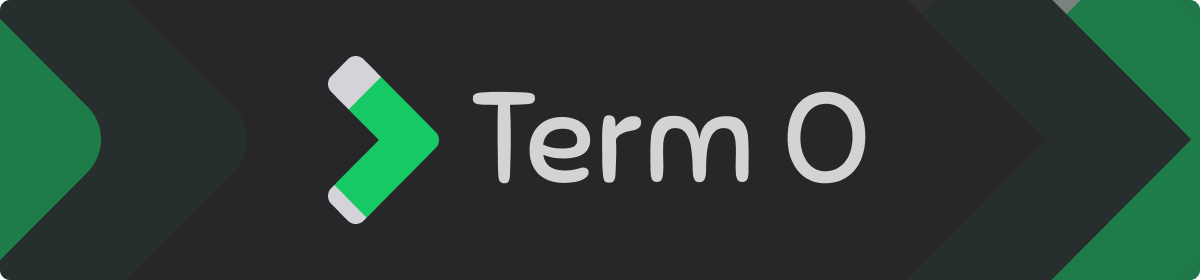
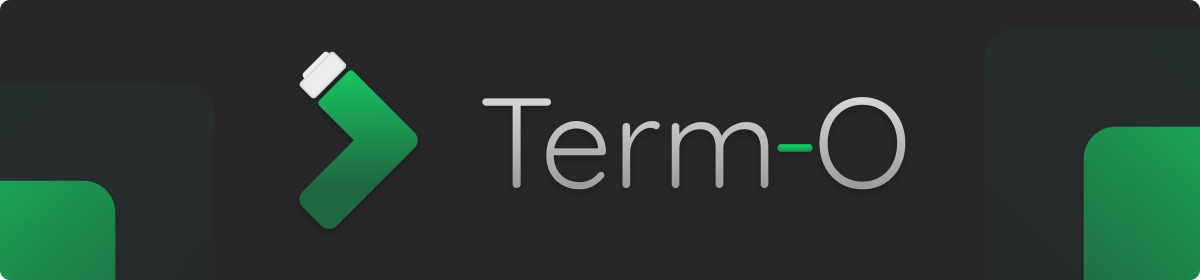
[WBS-295] Improve command dependency error messages (#275)
* feat: Isolate error logs to enable multiline errors

* feat: Update illustration in readme file

* feat: Handle errors for addons in an array format

* refactor: Manage array errors in command template

* feat: Display errors in multiliine

* feat: Improve message content

* feat: Show more info about errors

* feat: Add message error for option allow validation

* feat: Add message error for option conflict validation

* feat: Add expect prop for when validation

* feat: Add expect prop for requireNoOther validation

* refactor: Remove useless import

* refactor: Remove unnecessary changes

Pull request: [WBS-295] Improve command dependency error messages

diff --git a/src/helpers/validation-command.helpers.js b/src/helpers/validation-command.helpers.js
@@ -5,8 +5,8 @@ import {
   windowIdPattern
 } from '@src/constants/patterns.constants'
 import { getArrayAsLine } from '@src/helpers/arguments.helpers'
-import { quotify } from '@src/helpers/string.helpers'
 import { validateSchema } from '@src/helpers/validation-schema.helpers'
+import { getOptionTypeLabel } from './options.helpers'
 
 export const isRegExp = (option, value) => {
   try {
@@ -185,39 +185,47 @@ export const hasAllItemsAs = (...validations) => {
 }
 
 export const allow = (...dependencies) => {
-  return (option, _value, props) => {
+  return (option, _value, props, manager) => {
     const possibles = dependencies.concat(option.name)
     const uknownDependencies = Object.keys(props).filter(name => !possibles.includes(name))
     const hasUnknownDependencies = uknownDependencies.length > 0
 
     if (hasUnknownDependencies) {
       const name = option.displayName
-      const firstUknownDependency = uknownDependencies.at(0)
-      const quotedFirstUknownDependency = quotify(firstUknownDependency)
+      const options = uknownDependencies.map(name => {
+        const dependencyOption = manager.getByName(name)
+        const type = getOptionTypeLabel(dependencyOption.type)
 
-      throw `${name} can not be executed with ${quotedFirstUknownDependency}.`
+        return `! ${dependencyOption.displayName} ${type}`
+      })
+
+      throw [`${name} option cannot be used with the following:`, ...options]
     }
   }
 }
 
 export const requireAll = (...dependencies) => {
-  return (option, _value, props) => {
+  return (option, _value, props, manager) => {
     const propNames = Object.keys(props)
     const missingDependencies = dependencies.filter(dependency => !propNames.includes(dependency))
     const hasMissingDependencies = missingDependencies.length > 0
 
     if (hasMissingDependencies) {
       const name = option.displayName
-      const firstUknownDependency = missingDependencies.at(0)
-      const quotedFirstUknownDependency = quotify(firstUknownDependency)
+      const options = dependencies.map(name => {
+        const dependencyOption = manager.getByName(name)
+        const type = getOptionTypeLabel(dependencyOption.type)
 
-      throw `${name} must be executed with ${quotedFirstUknownDependency}.`
+        return `! ${dependencyOption.displayName} ${type}`
+      })
+
+      throw [`${name} option must be used with the following:`, ...options]
     }
   }
 }
 
 export const requireAnyOf = (...dependencies) => {
-  return (option, _value, props) => {
+  return (option, _value, props, manager) => {
     const propNames = Object.keys(props)
     const possibles = dependencies.concat(option.name)
     const usedRequiredDependencies = possibles.filter(dependency => propNames.includes(dependency))
@@ -225,49 +233,63 @@ export const requireAnyOf = (...dependencies) => {
 
     if (!isUsingRequiredOnes) {
       const name = option.displayName
+      const options = dependencies.map(name => {
+        const dependencyOption = manager.getByName(name)
+        const type = getOptionTypeLabel(dependencyOption.type)
 
-      throw `${name} is not expected to be executed within this set of options.`
+        return `! ${dependencyOption.displayName} ${type}`
+      })
+
+      throw [`${name} option must be used with one of the following:`, ...options]
     }
   }
 }
 
 export const conflict = (...dependencies) => {
-  return (option, _value, props) => {
+  return (option, _value, props, manager) => {
     const names = Object.keys(props)
     const conflictingDependencies = dependencies.filter(dependency => names.includes(dependency))
     const hasConflicts = conflictingDependencies.length > 0
 
     if (hasConflicts) {
       const name = option.displayName
-      const firstConflict = conflictingDependencies.at(0)
-      const quotedFirstConflict = quotify(firstConflict)
+      const options = conflictingDependencies.map(name => {
+        const dependencyOption = manager.getByName(name)
+        const type = getOptionTypeLabel(dependencyOption.type)
 
-      throw `${name} conflicts with ${quotedFirstConflict}.`
+        return `! ${dependencyOption.displayName} ${type}`
+      })
+
+      throw [`${name} option cannot be used with the following:`, ...options]
     }
   }
 }
 
-export const when = (trigger, validations) => {
-  return (option, value, props) => {
-    const isTriggered = Object.keys(props).includes(trigger)
-
-    if (isTriggered) {
-      validations.forEach(validation => validation(option, value, props))
-    }
-  }
-}
-
-export const requireNoOther = (option, _value, props) => {
+export const requireNoOther = (option, _value, props, manager) => {
   const propNames = Object.keys(props)
   const forbiddenDependencies = propNames.filter(name => name !== option.name)
   const hasForbbidenDependencies = forbiddenDependencies.length > 0
 
   if (hasForbbidenDependencies) {
     const name = option.displayName
-    const firstForbiddenDependency = forbiddenDependencies.at(0)
-    const quotedFirstForbiddenDependency = quotify(firstForbiddenDependency)
+    const options = forbiddenDependencies.map(name => {
+      const dependencyOption = manager.getByName(name)
+      const type = getOptionTypeLabel(dependencyOption.type)
 
-    throw `${name} can not be executed with ${quotedFirstForbiddenDependency}.`
+      return `! ${dependencyOption.displayName} ${type}`
+    })
+
+    throw [`${name} option cannot be used with the following:`, ...options]
+  }
+}
+
+export const when = (trigger, validations) => {
+  return (option, value, props, manager) => {
+    const isTriggered = Object.keys(props).includes(trigger)
+
+    if (isTriggered) {
+      validations.forEach(validation => validation(option, value, props, manager))
+    }
   }
 }
 

diff --git a/src/templates/Command/Command.template.js b/src/templates/Command/Command.template.js
@@ -21,13 +21,17 @@ export class Command extends EventListener {
     this.status = commandStatuses.IDLE
     this.options = options
     this.visible = true
-    this._logs = []
     this._staticLogs = []
+    this._errorLogs = []
+    this._logs = []
     this._shared = {}
   }
 
+  get errors() {
+    return this._errorLogs
+  }
   get logs() {
-    return [...this._staticLogs, ...this._logs]
+    return [...this._staticLogs, ...this._logs, ...this._errorLogs]
   }
   get hasArgsPending() {
     return this.args.some(arg => arg.isHoldingUp)
@@ -132,12 +136,17 @@ export class Command extends EventListener {
     }
   }
 
-  throw(message) {
-    if (message === null) message = ''
-    else if (typeof message !== 'string') message = message.toString()
-    const errorUpdate = formatError({ title: message })
+  throw(error) {
+    let errorLogs = []
 
-    this.log(errorUpdate)
+    if (error instanceof Array) errorLogs = error.map(String)
+    else if (typeof error === 'string') errorLogs = [error]
+    else if (error instanceof Error) errorLogs = [error.toString()]
+    else errorLogs = ['Unexpected error was thrown.']
+
+    const logs = errorLogs.map(log => formatError({ title: log }))
+
+    this._errorLogs = [...this._errorLogs, ...logs]
     this.changeStatus(commandStatuses.ERROR)
   }
 

diff --git a/src/apps/sandbox/index.js b/src/apps/sandbox/index.js
@@ -12,11 +12,10 @@ async function safeEval(event) {
       const handleSandboxCommand = event => {
         if (event.data?.type !== sandboxEvents.COMMAND_RETURN) return
         const data = event.data.data
-        const errorMessage = data.logs.at(-1)
 
         window.removeEventListener('message', handleSandboxCommand)
         if (!data.hasError) resolve(data.logs)
-        else reject(errorMessage)
+        else reject(data.errors)
       }
 
       window.addEventListener('message', handleSandboxCommand)
@@ -34,11 +33,10 @@ async function safeEval(event) {
       const handleSandboxCommand = event => {
         if (event.data?.type !== sandboxEvents.COMMAND_LOG_RETURN) return
         const data = event.data.data
-        const errorMessage = data.logs.at(-1)
 
         window.removeEventListener('message', handleSandboxCommand)
         if (!data.hasError) resolve(data.logs)
-        else reject(errorMessage)
+        else reject(data.errors)
       }
 
       window.addEventListener('message', handleSandboxCommand)
@@ -55,11 +53,10 @@ async function safeEval(event) {
       const handleSandboxCommand = event => {
         if (event.data?.type !== sandboxEvents.COMMAND_CLEAR_LOGS_RETURN) return
         const data = event.data.data
-        const errorMessage = data.logs.at(-1)
 
         window.removeEventListener('message', handleSandboxCommand)
         if (!data.hasError) resolve(data.logs)
-        else reject(errorMessage)
+        else reject(data.errors)
       }
 
       window.addEventListener('message', handleSandboxCommand)
@@ -104,12 +101,16 @@ async function safeEval(event) {
     const result = userMain(term)
     await Promise.resolve(result)
 
-    return ''
+    return []
   } catch (error) {
-    const message = String(error?.message ?? error)
+    let errorLogs = []
 
-    await log(message)
-    return message
+    if (error instanceof Array) errorLogs = error.map(String)
+    else if (typeof error === 'string') errorLogs = [error]
+    else if (error instanceof Error) errorLogs = [error.toString()]
+    else errorLogs = ['Unexpected error was thrown.']
+
+    return errorLogs
   }
 }
 

diff --git a/src/templates/Option/Option.template.js b/src/templates/Option/Option.template.js
@@ -20,14 +20,15 @@ export class Option {
   }
 
   get displayName() {
-    return `-${this.abbreviation}, --${this.name}`
+    return `--${this.name} (-${this.abbreviation})`
   }
 
   setValue(value) {
     this.value = value
   }
 
-  validate(value, props) {
-    if (this.validations) this.validations.forEach(validation => validation(this, value, props))
+  validate(value, props, manager) {
+    if (!this.validations) return
+    this.validations.forEach(validation => validation(this, value, props, manager))
   }
 }

diff --git a/src/templates/OptionsManager/OptionsManager.template.js b/src/templates/OptionsManager/OptionsManager.template.js
@@ -23,7 +23,7 @@ export class OptionsManager {
     Object.entries(values).forEach(([name, value]) => {
       const option = this.getByName(name)
 
-      option.validate(value, values)
+      option.validate(value, values, this)
       option.setValue(value)
     })
   }